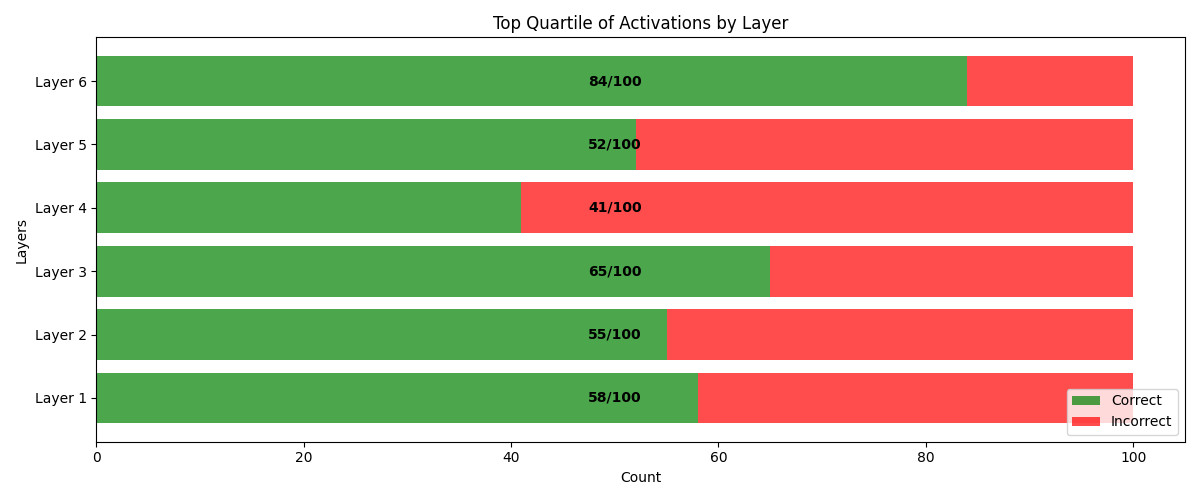
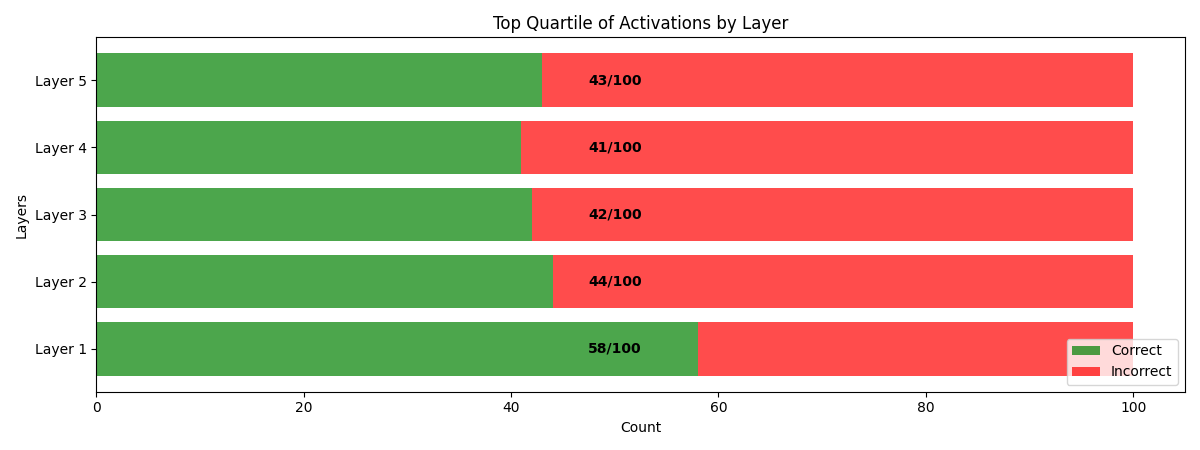
prog

diff --git a/RecurrentFF/model/model.py b/RecurrentFF/model/model.py
@@ -152,7 +152,7 @@ class RecurrentFFNet(nn.Module):
             if isinstance(layer, nn.Linear):
                 nn.init.kaiming_uniform_(layer.weight, nonlinearity='relu')
         self.optimizer = torch.optim.Adam(
-            self.generative_linear.parameters(), lr=self.settings.model.ff_rmsprop.learning_rate)
+            self.generative_linear.parameters(), lr= 0.0000005)
 
         logging.info("Finished initializing network")
 
@@ -227,25 +227,24 @@ class RecurrentFFNet(nn.Module):
                         neg_badness_per_layer,
                         total_batch_count)
 
-                test_accuracy = self.processor.brute_force_predict(
-                    test_loader, self.generative_linear, self.optimizer, 1, True)
-                if test_accuracy > grad_pass_acc_threshold["value_contingent"]:
-                    grad_pass_acc_threshold["should_pass_back"] = not grad_pass_acc_threshold["should_pass_back"]
-                    grad_pass_acc_threshold["value"] = test_accuracy
-                    grad_pass_acc_threshold["value_contingent"] = test_accuracy
-                    grad_pass_acc_threshold["times_exceeded"] = 0
-                    print(f"--------------- new threshold: {test_accuracy} ----- enabled: {grad_pass_acc_threshold['should_pass_back']}")
-                else:  # TODO: try only if still contrastive
-                    # TODO: + 1 buffer
-                    grad_pass_acc_threshold["value_contingent"] = test_accuracy
-                    grad_pass_acc_threshold["value"] = test_accuracy
-                    grad_pass_acc_threshold["times_exceeded"] = 0
+                # test_accuracy = self.processor.brute_force_predict(
+                #     test_loader, self.generative_linear, self.optimizer, 1, True)
+                # if test_accuracy > grad_pass_acc_threshold["value_contingent"]:
+                #     grad_pass_acc_threshold["should_pass_back"] = not grad_pass_acc_threshold["should_pass_back"]
+                #     grad_pass_acc_threshold["value"] = test_accuracy
+                #     grad_pass_acc_threshold["value_contingent"] = test_accuracy
+                #     grad_pass_acc_threshold["times_exceeded"] = 0
+                #     print(f"--------------- new threshold: {test_accuracy} ----- enabled: {grad_pass_acc_threshold['should_pass_back']}")
+                # else:  # TODO: try only if still contrastive
+                #     # TODO: + 1 buffer
+                #     grad_pass_acc_threshold["value_contingent"] = test_accuracy
+                #     grad_pass_acc_threshold["value"] = test_accuracy
+                #     grad_pass_acc_threshold["times_exceeded"] = 0
 
-                if train_accuracy > test_accuracy + 4 and grad_pass_acc_threshold["should_pass_back"]:
-                    grad_pass_acc_threshold["should_pass_back"] = False
-                    print("-----------disabling grad flow")
-
-                print()
+                # if train_accuracy > test_accuracy + 2 and grad_pass_acc_threshold["should_pass_back"]:
+                #     grad_pass_acc_threshold["should_pass_back"] = False
+                #     print("-----------disabling grad flow")
+                # print()
 
                 total_batch_count += 1
 
@@ -565,21 +564,21 @@ class RecurrentFFNet(nn.Module):
 
             # percent_c_after_update = percent_correct(torch.softmax(
             #     reconstructed_labels, dim=1), label_data.pos_labels[iteration])
-            if percent_c != None and percent_c > grad_pass_acc_threshold["value"]:
-                grad_pass_acc_threshold["times_exceeded"] += 1
-                if grad_pass_acc_threshold["times_exceeded"] > 3:
-                    has_decided_skip = True
+            # if percent_c != None and percent_c > grad_pass_acc_threshold["value"]:
+            #     grad_pass_acc_threshold["times_exceeded"] += 1
+            #     if grad_pass_acc_threshold["times_exceeded"] > 3:
+            #         has_decided_skip = True
 
-            # print(
-            #     f'{grad_pass_acc_threshold["should_pass_back"]}: {grad_pass_acc_threshold["value"]} vs {percent_c}')
-            if not grad_pass_acc_threshold["should_pass_back"] or has_decided_skip:
-                for layer in self.inner_layers:
-                    layer.optimizer.step()
+            # if not grad_pass_acc_threshold["should_pass_back"] or has_decided_skip:
+            #     for layer in self.inner_layers:
+            #         layer.optimizer.step()
             loss.backward()
             self.optimizer.step()
-            if not has_decided_skip and grad_pass_acc_threshold["should_pass_back"]:
-                for layer in self.inner_layers:
-                    layer.optimizer.step()
+            # if not has_decided_skip and grad_pass_acc_threshold["should_pass_back"]:
+            #     for layer in self.inner_layers:
+            #         layer.optimizer.step()
+            for layer in self.inner_layers:
+                layer.optimizer.step()
             for layer in self.inner_layers:
                 layer.pos_activations.current = layer.pos_activations.current.clone().detach()
                 layer.neg_activations.current = layer.neg_activations.current.clone().detach()
@@ -664,12 +663,12 @@ class RecurrentFFNet(nn.Module):
             conf, should_stop = is_confident(torch.softmax(
                 reconstructed_labels, dim=1), label_data.pos_labels[iteration], confidence_threshold["value"])
 
-            if percent_c < grad_pass_acc_threshold["value_contingent"]:
-                grad_pass_acc_threshold["value_contingent"] -= 0.02
-                # print(f"++ updated contingent thresh: {round(grad_pass_acc_threshold['value_contingent'], 2)}")
-            elif grad_pass_acc_threshold["value"] != grad_pass_acc_threshold["value_contingent"] and percent_c > grad_pass_acc_threshold["value_contingent"]:
-                grad_pass_acc_threshold["value_contingent"] = grad_pass_acc_threshold["value"]
-                # print(f"++ reset contingent thresh: {round(grad_pass_acc_threshold['value_contingent'], 2)}")
+            # if percent_c < grad_pass_acc_threshold["value_contingent"]:
+            #     grad_pass_acc_threshold["value_contingent"] -= 0.02
+            #     # print(f"++ updated contingent thresh: {round(grad_pass_acc_threshold['value_contingent'], 2)}")
+            # elif grad_pass_acc_threshold["value"] != grad_pass_acc_threshold["value_contingent"] and percent_c > grad_pass_acc_threshold["value_contingent"]:
+            #     grad_pass_acc_threshold["value_contingent"] = grad_pass_acc_threshold["value"]
+            #     # print(f"++ reset contingent thresh: {round(grad_pass_acc_threshold['value_contingent'], 2)}")
 
             # if it was over 90% confident in correct answer on average return
             # if should_stop:

diff --git a/RecurrentFF/analysis/data_pipeline/collect_activations.py b/RecurrentFF/analysis/data_pipeline/collect_activations.py
@@ -13,7 +13,7 @@ from RecurrentFF.settings import Settings, DataConfig
 TEST_BATCH_SIZE = TRAIN_BATCH_SIZE
 NUM_BATCHES = 1000
 
-WEIGHTS_PATH = "/home/localuser/Documents/projects/RecurrentForwardForward/CIFAR10_2024-10-07_08-11-53_LABN2B.pth"
+WEIGHTS_PATH = "/home/localuser/Documents/projects/RecurrentForwardForward/CIFAR10_2024-10-08_15-13-57_B6VJTI.pth"
 
 if __name__ == "__main__":
     settings = Settings.new()
